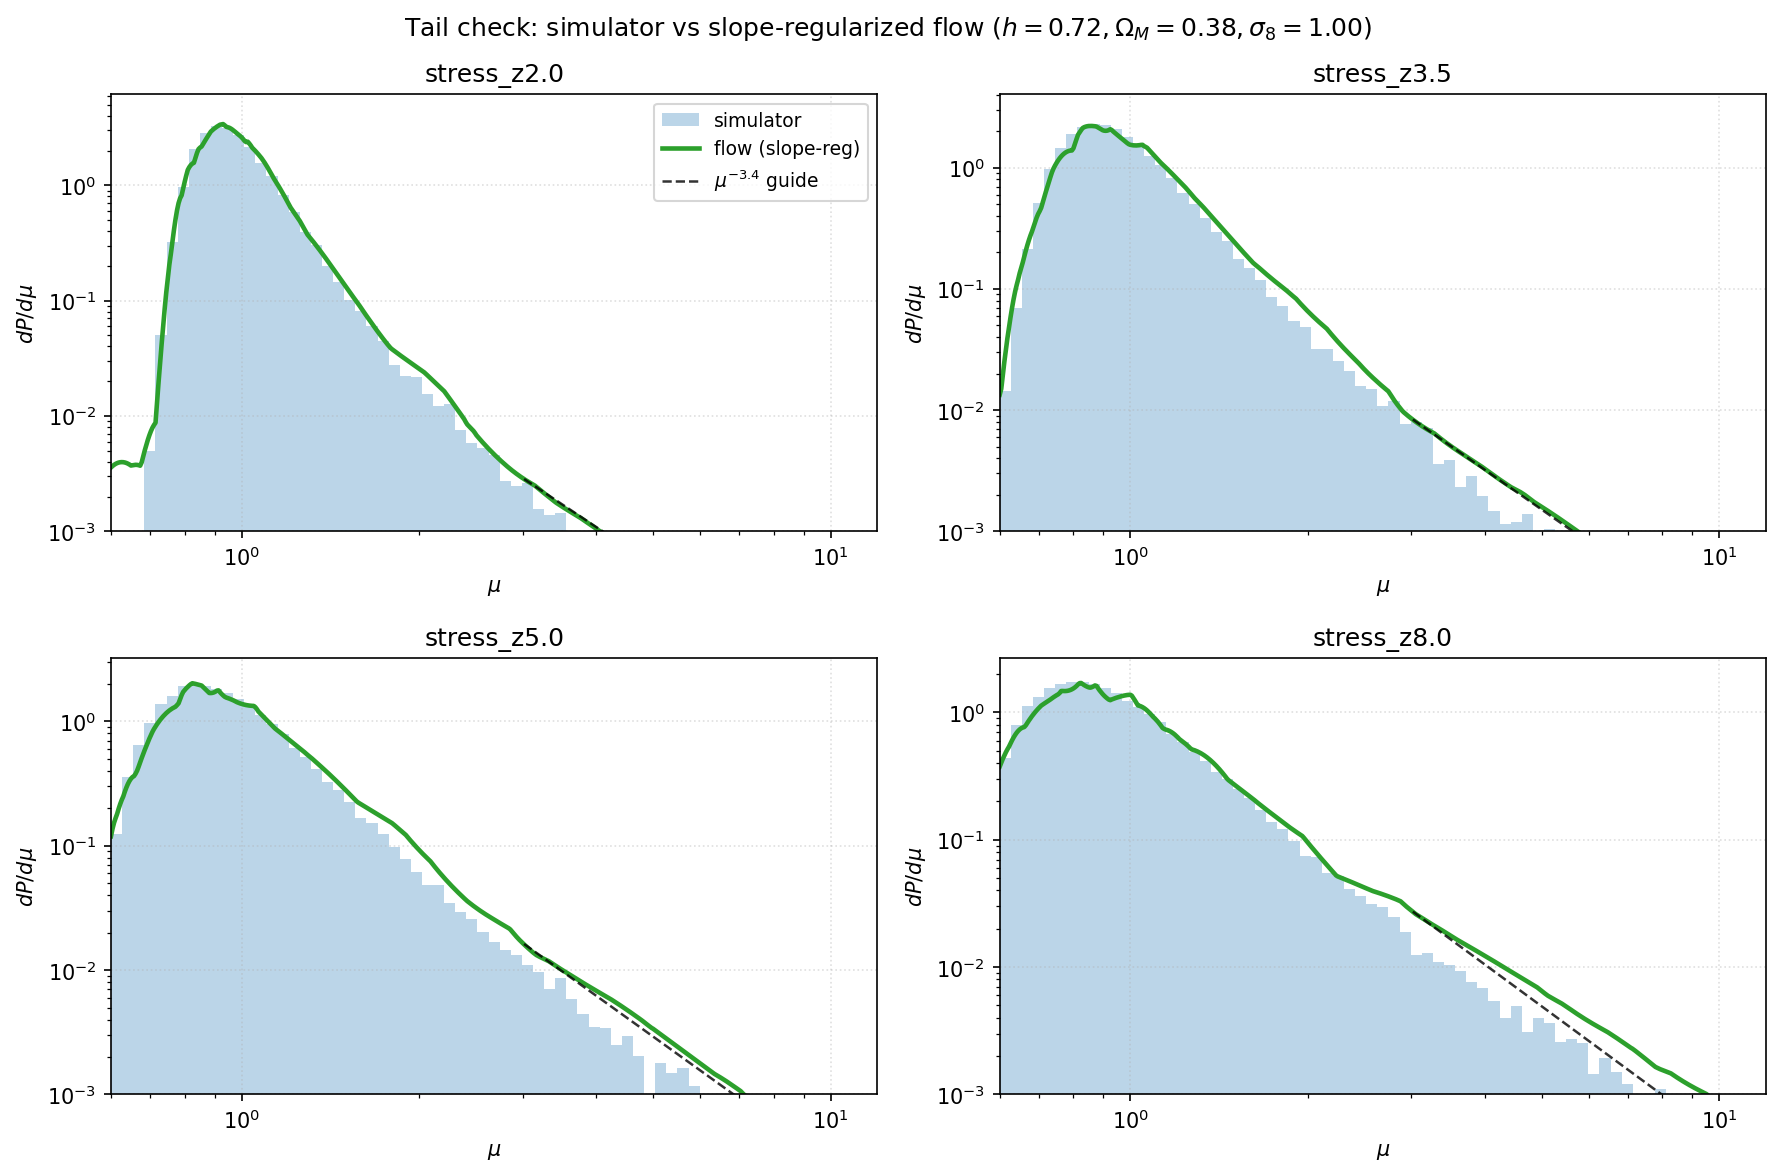
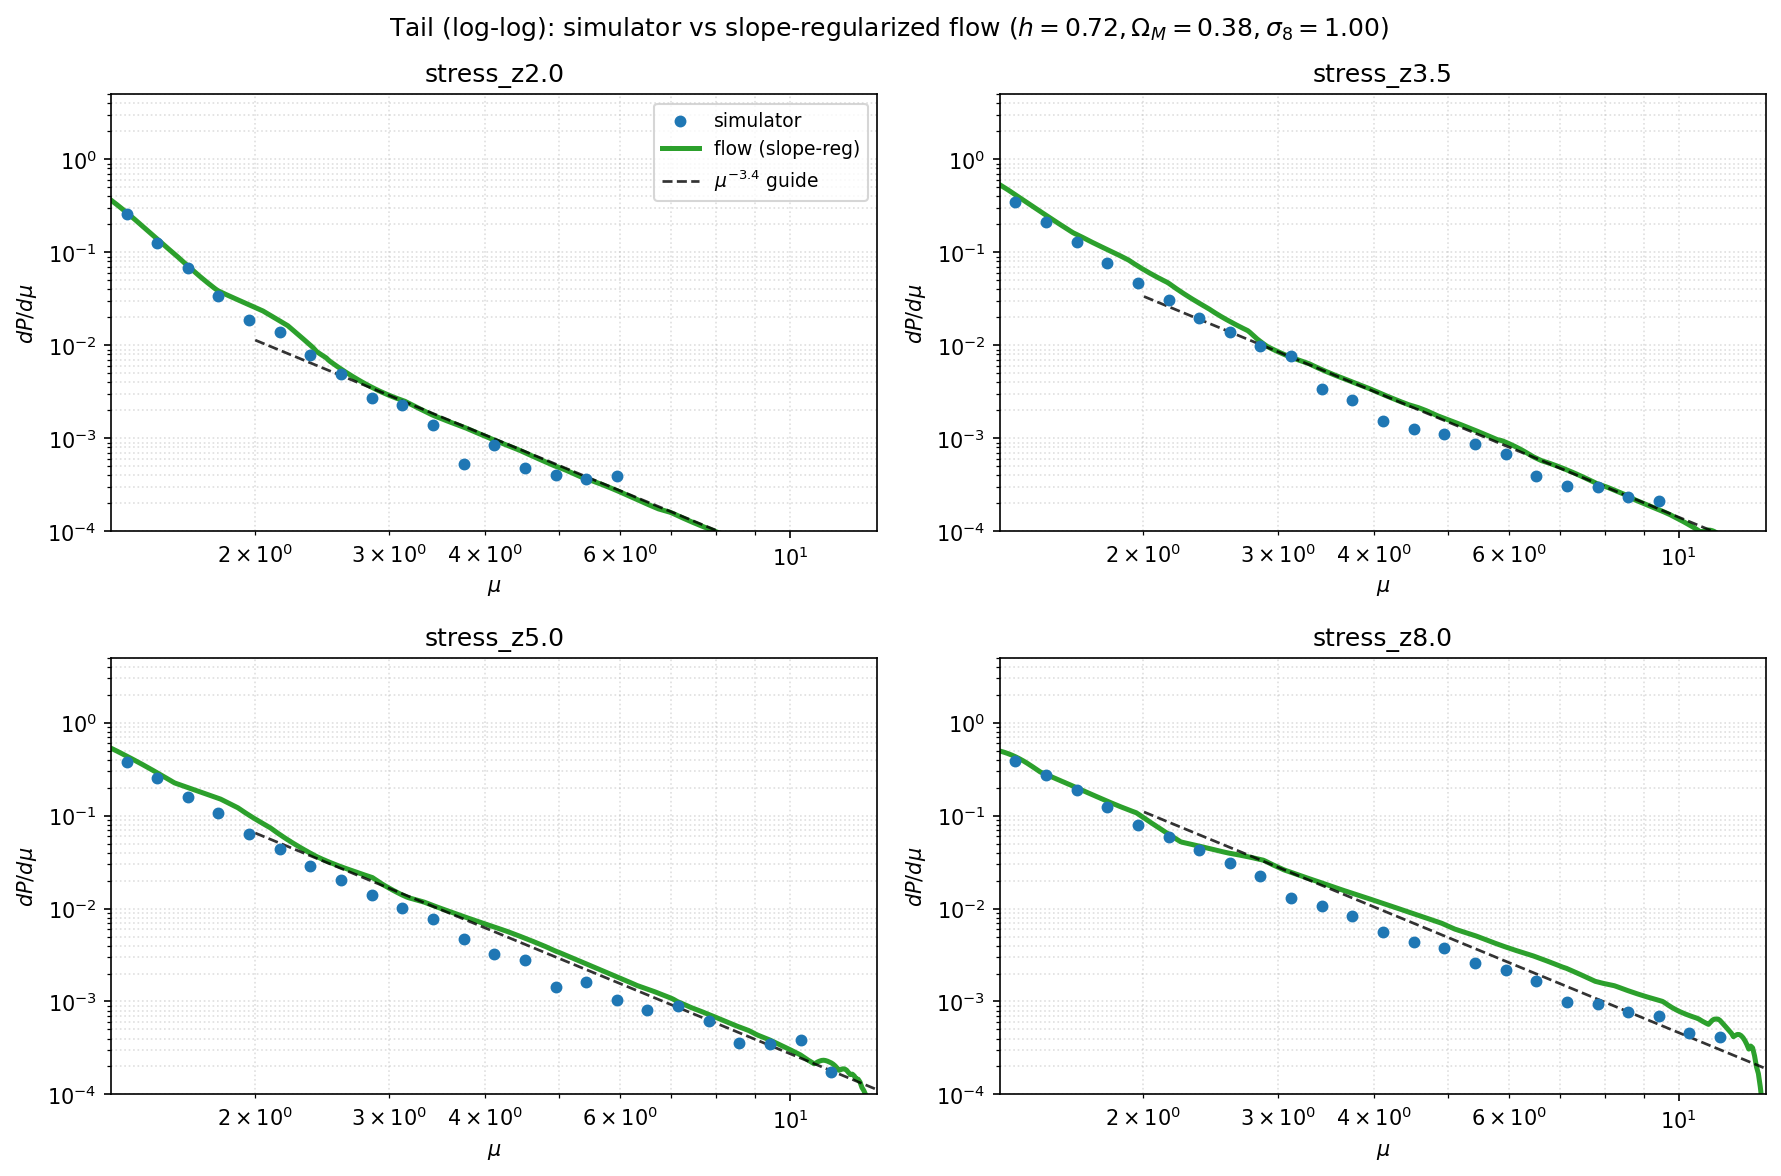
body flow: pure NLL (no tilt/slope/reweight) as faithful body for the EVT tail splice

diff --git a/ml/autoresearch/train_ar.py b/ml/autoresearch/train_ar.py
@@ -50,9 +50,9 @@ CONFIG = dict(
     # --- tail-aware loss (0 disables) ---
     tail_weight=0.0,     # extra weight on samples with lnmu > tail_thresh (hard; causes shoulder)
     tail_thresh=1.5,
-    tail_tilt=0.45,       # smooth weighting by mu^tail_tilt (no threshold -> no shoulder)
+    tail_tilt=0.0,       # smooth weighting by mu^tail_tilt (no threshold -> no shoulder)
     # --- tail slope penalty: pin d log p/dlnmu to benchmark power law (0 disables) ---
-    smooth_weight=1.0,   # weight on mean (tail log-density slope - benchmark)^2
+    smooth_weight=0.0,   # weight on mean (tail log-density slope - benchmark)^2
     slope_alpha=3.4,     # benchmark power-law index (dP/dmu ~ mu^-alpha)
     smooth_lo=3.0,       # tail grid lower mu
     smooth_hi=12.0,      # tail grid upper mu
